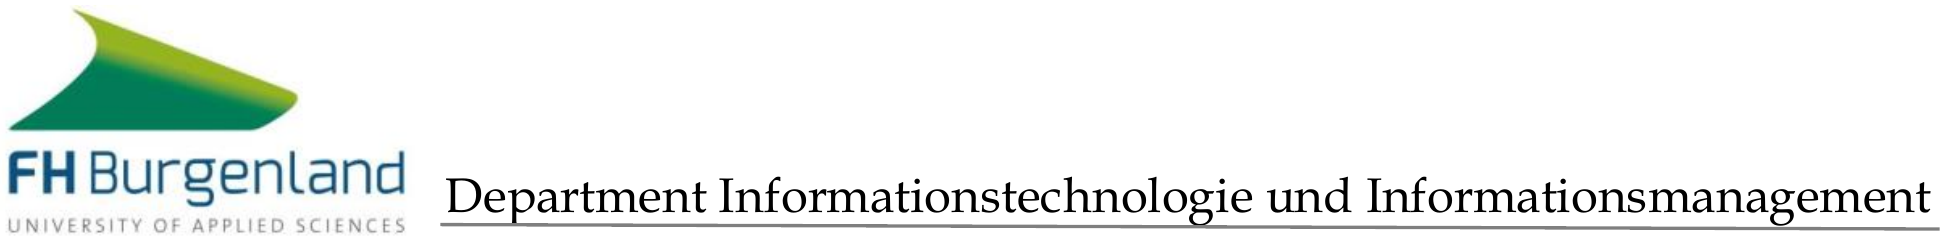
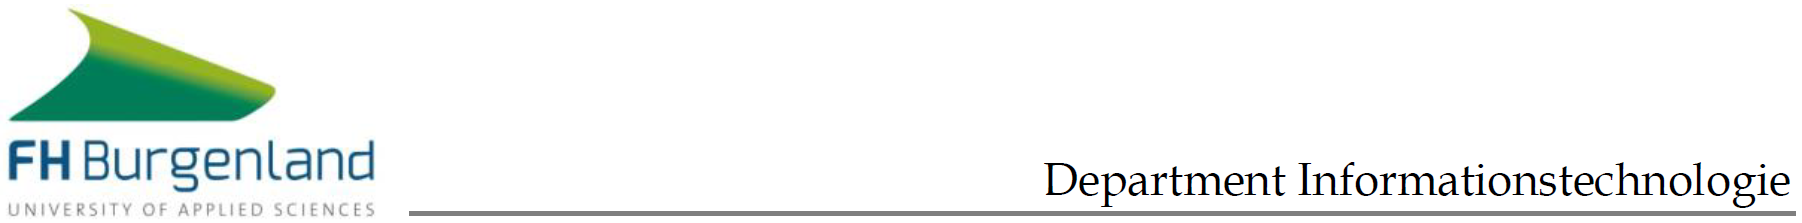
Change department name

Changed region(s): [[0.0, 0.6188, 1.0, 0.9955], [0.0, 0.4843, 0.1554, 0.565]]

diff --git a/01_data/yourData.tex b/01_data/yourData.tex
@@ -5,7 +5,7 @@
 \newcommand{\yourNameInclTitle}{Akademische(r) Grad(e)  Vorname Zuname}
 \newcommand{\yourMatNumber}{12345678}
 \newcommand{\supervisorNameInclTitle}{Akademische(r) Grad(e)  Vorname Zuname}
-\newcommand{\departmentName}{Department Informationstechnologie und Informationsmanagement}
+\newcommand{\departmentName}{Department Informationstechnologie}
 \newcommand{\yourThesisTitle}{Please enter your Thesis Title here, up to 70 characters. If necessary, adapt spaces in FHBgld\_Thesis.}
 \newcommand{\thesisDate}{March \ordinalnum{17} 2021}
 \newcommand{\universityCityCountry}{FH-Burgenland, Eisenstadt, Österreich}
